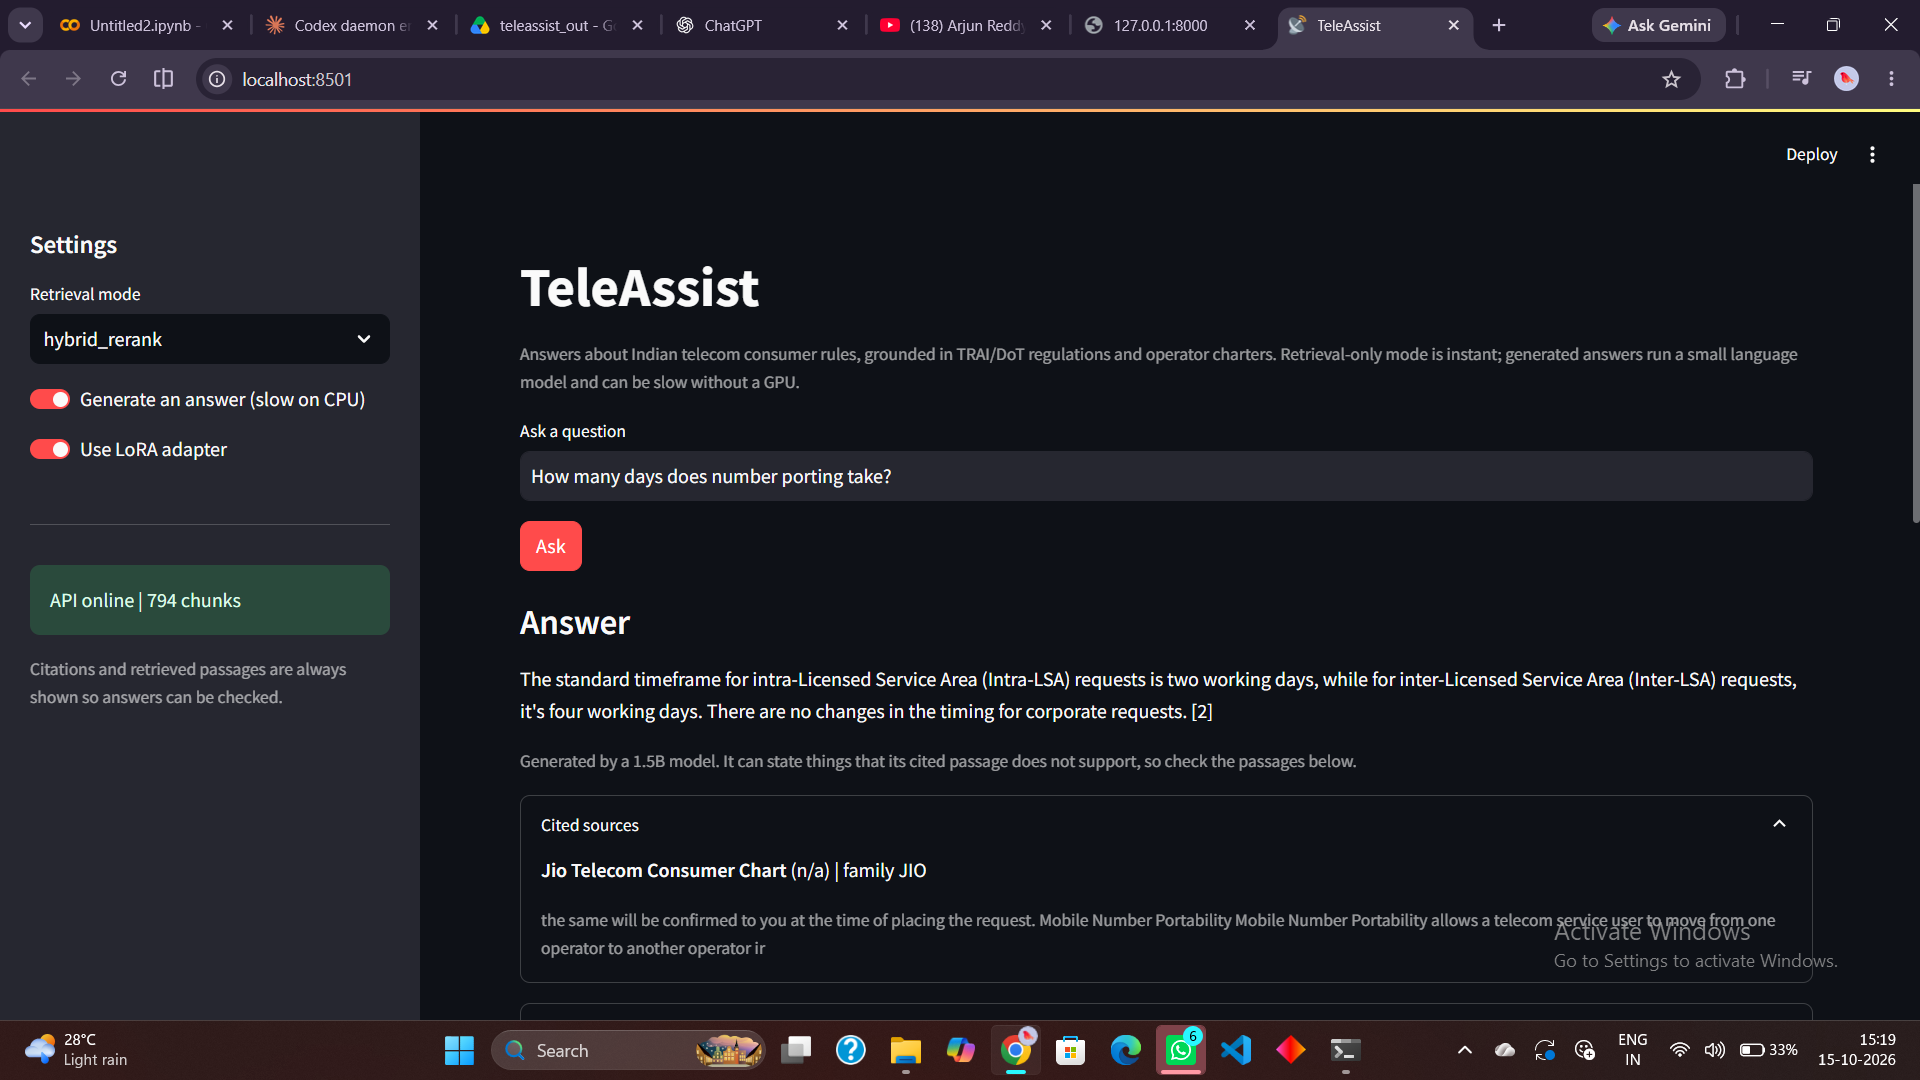
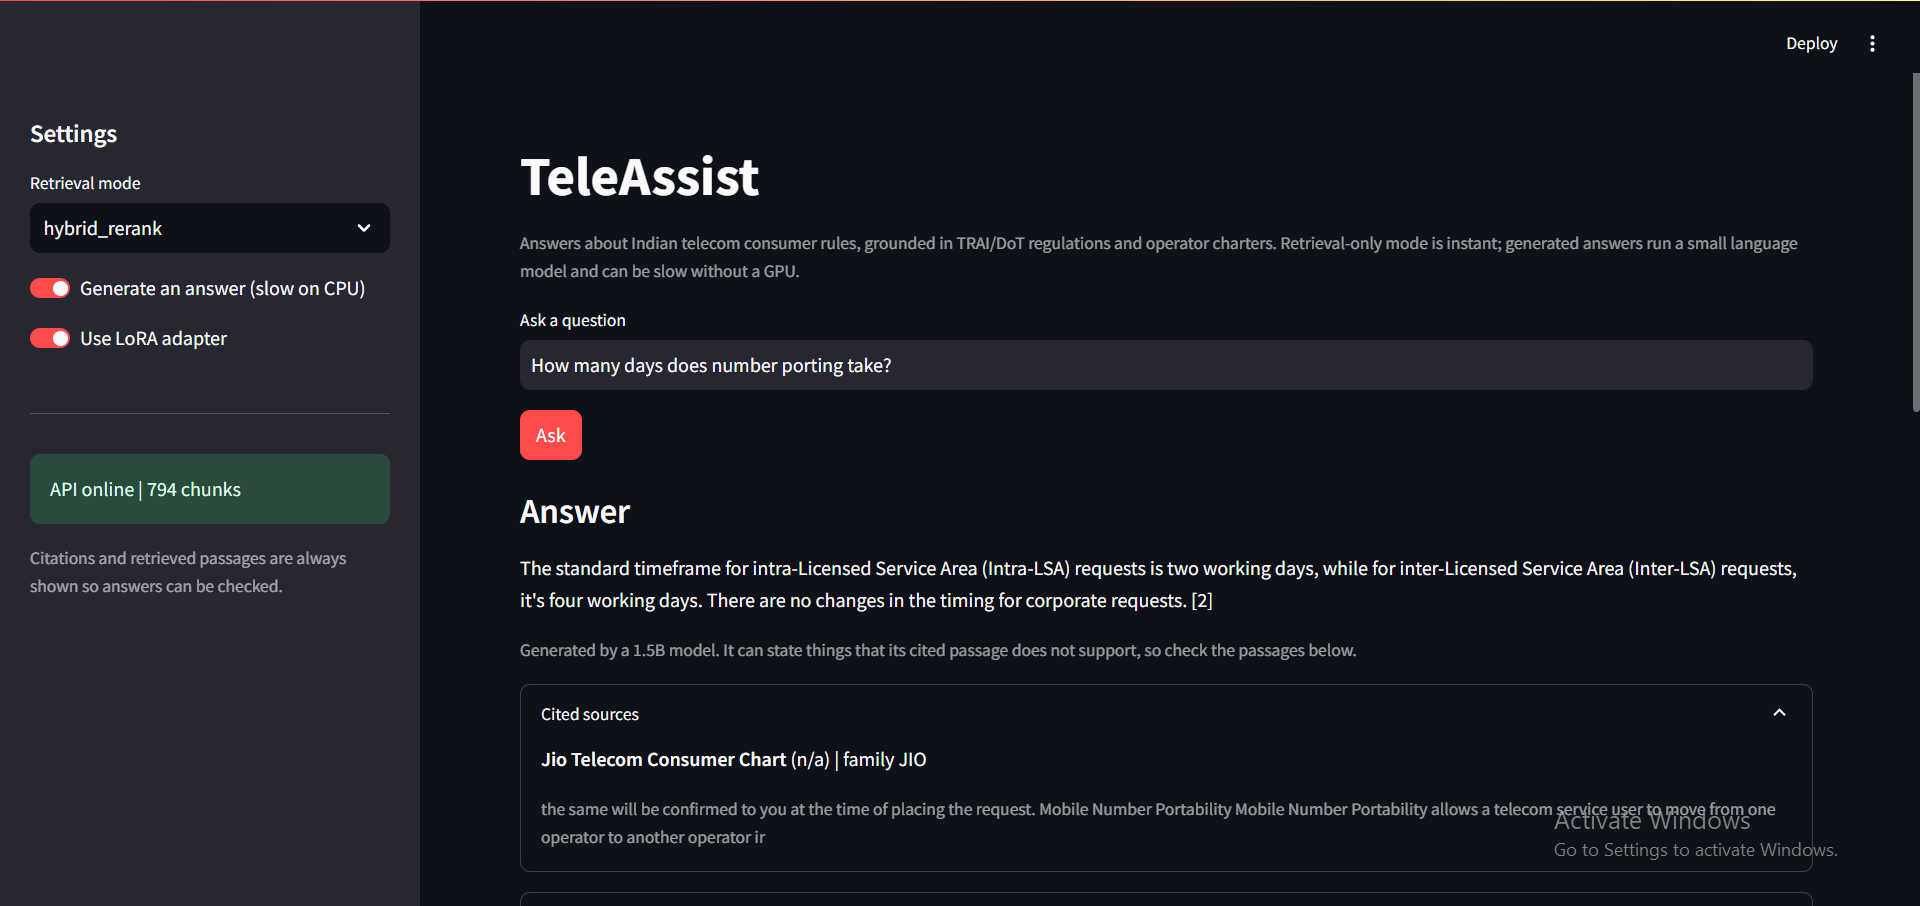
README demo section with UI screenshots

diff --git a/README.md b/README.md
@@ -74,6 +74,16 @@ The base model never writes citations, so its citation score is 0 by constructio
 - **A manual check of 8 random v1 answers** against their cited passages found 3 supported, 1 partly supported and 4 unsupported. The generator will sometimes cite a passage that does not contain its claim.
 - **Sensitivity to the index:** with Wikipedia chunks in the index, v1 refused 2 of 10 unanswerable questions. With the official-only index it refused 6 of 10, with no retraining. Removing Wikipedia was chosen after the first evaluation showed generic Wikipedia pages outranking regulation text for plain-worded questions. It is a corpus decision, but it was made after seeing results on this eval set.
 
+## Demo
+
+Retrieval only (no language model): the top five passages with document, year and family. The first request after starting the server loads the models and took about 40 seconds on the author's laptop.
+
+![Retrieval-only mode](docs/images/Hybrid_rerank_nongenerative.png)
+
+Generated answer with the LoRA adapter, running on a CPU (generation took about 2 minutes). The day counts in this answer come from retrieved passage [4], an MNP regulation chunk, but the answer cites [2], a Jio charter chunk that does not contain them, and its last sentence is not supported by any retrieved passage. This is the failure mode measured in the evaluation, which is why the UI always shows the retrieved passages.
+
+![Generated answer](docs/images/Hybrid_rerank_generative.png)
+
 ## Limitations
 
 - 43 evaluation questions: wide confidence intervals, and differences of one or two questions mean nothing.
